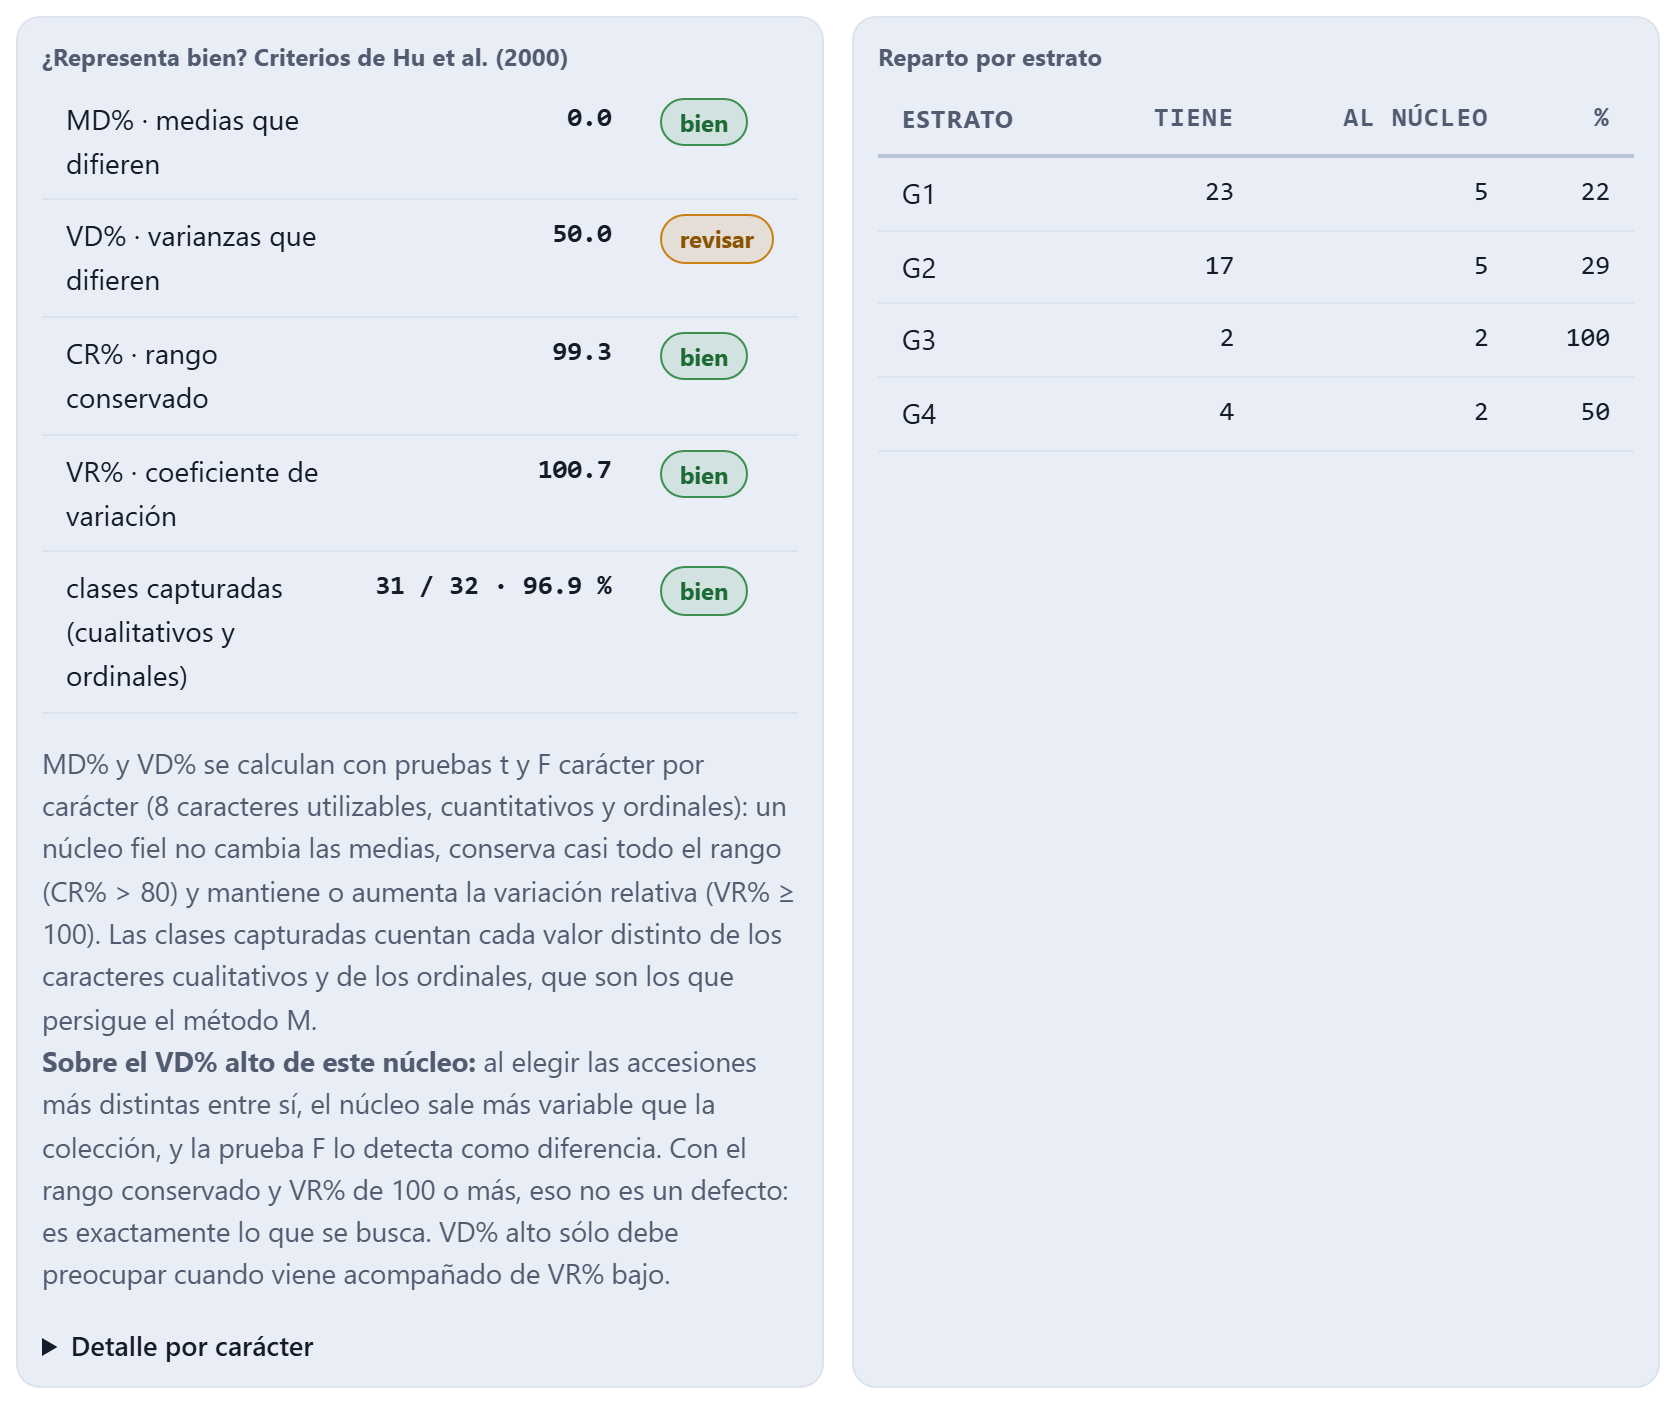
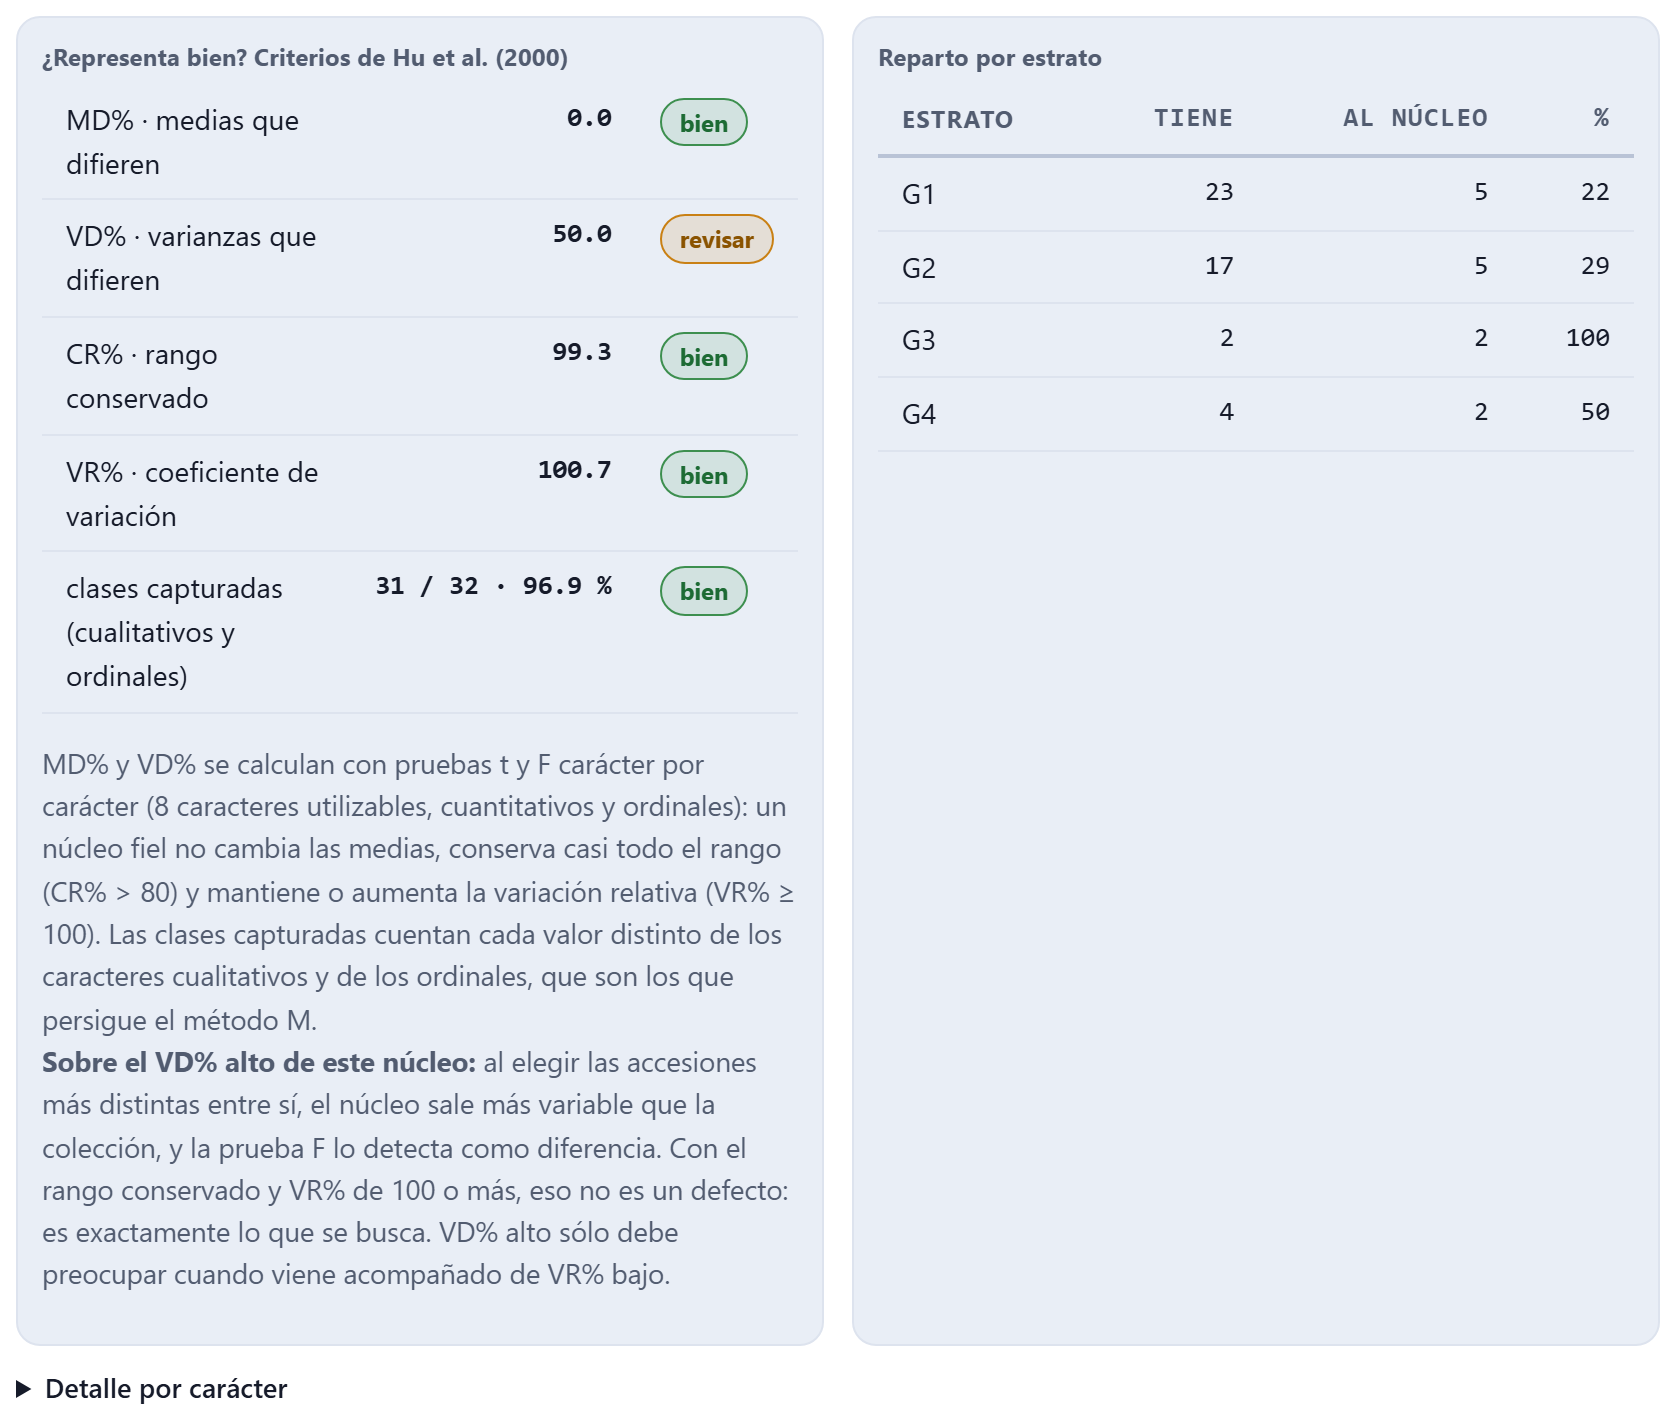
Manual en español: capítulo 7 con el aviso de núcleo pequeño que calcula el tamaño y el detalle por carácter a todo el ancho; capturas b7-nucleo, b7-nucleo30 y b7-detalle rehechas

diff --git a/manual/es/07-bloque7.html b/manual/es/07-bloque7.html
@@ -19,7 +19,7 @@
   figure.chica { width: 62%; margin-left: auto; margin-right: auto; }
   figure.angosta { width: 50%; margin-left: auto; margin-right: auto; }
   .lado { display: flex; gap: 0.22in; align-items: center; margin: 0.1in 0; }
-  .lado > figure { flex: 0 0 46%; margin: 0; }
+  .lado > figure { flex: 0 0 40%; margin: 0; }
   .lado > div { flex: 1 1 0; }
 </style>
 </head>
@@ -207,7 +207,7 @@
   <h2 id="b7-6"><span class="num">7.6</span>La colección núcleo: estratos, reparto y elección</h2>
   <p>Una <b>colección núcleo</b> (Frankel y Brown 1984) es un subconjunto pequeño que guarda, con el mínimo de repeticiones, la mayor parte de la diversidad de la colección entera. Sirve para caracterizar a fondo, para evaluar en campo o para atender pedidos sin tocar todo el banco. La sección <span class="ui">3 · La colección núcleo</span> la arma en tres decisiones: cuántas accesiones, en qué estratos se reparten y cuáles se eligen dentro de cada estrato.</p>
   <figure class="mediana">
-    <div class="marco"><img src="../img/b7-nucleo.png" alt="La sección 3 · La colección núcleo con los valores de fábrica: los selectores Tamaño en 10 %, Método por estratos, Estratos en grupos del agrupamiento, Reparto en Logarítmica y Dentro del estrato las más distintas, la casilla al menos 1 por estrato sin marcar y el botón otra selección al azar desactivado; el aviso El núcleo es demasiado pequeño para juzgarlo con estas cifras con 5 accesiones; la tabla de criterios de Hu et al. con MD% 0.0 bien, VD% 62.5 revisar, CR% 75.2 revisar, VR% 91.4 revisar y clases capturadas 19 / 32 · 59.4 % revisar, el desplegable Detalle por carácter cerrado; y el reparto por estrato G1 23 a 2, G2 17 a 1, G3 2 a 1 y G4 4 a 1"></div>
+    <div class="marco"><img src="../img/b7-nucleo.png" alt="La sección 3 · La colección núcleo con los valores de fábrica: los selectores Tamaño en 10 %, Método por estratos, Estratos en grupos del agrupamiento, Reparto en Logarítmica y Dentro del estrato las más distintas, la casilla al menos 1 por estrato sin marcar y el botón otra selección al azar desactivado; el aviso El núcleo es demasiado pequeño para juzgarlo con estas cifras con 5 accesiones, que dice que con 46 caracterizadas hace falta un núcleo de 21 % o más y propone elegir 25 %; la tabla de criterios de Hu et al. con MD% 0.0 bien, VD% 62.5 revisar, CR% 75.2 revisar, VR% 91.4 revisar y clases capturadas 19 / 32 · 59.4 % revisar; el reparto por estrato G1 23 a 2, G2 17 a 1, G3 2 a 1 y G4 4 a 1; y, debajo, el desplegable Detalle por carácter cerrado"></div>
     <figcaption><b>Figura 7.5.</b> El núcleo de fábrica: 10&nbsp;%, estratificado por los grupos de Ward, reparto logarítmico y las accesiones más distintas dentro de cada estrato. Con 5 accesiones, la app avisa que el núcleo es demasiado pequeño para juzgarlo.</figcaption>
   </figure>
   <p>La tabla <span class="ui">Reparto por estrato</span> dice, para cada estrato, cuántas accesiones <span class="ui">Tiene</span>, cuántas van <span class="ui">Al núcleo</span> y qué porcentaje es; los estratos que se quedan sin representante salen en gris, con 0. Con el método M, en su lugar aparece una frase con cuántas accesiones se eligieron y cuántas clases quedaron fuera. Debajo, la lista del núcleo (figura 7.9) da el número, el nombre, la especie, el grupo y el estrato de cada accesión elegida.</p>
@@ -269,11 +269,11 @@
     <div class="formula">clases capturadas = 100 · Σ clases en el núcleo / Σ clases en la colección<br>(cualitativos y ordinales: cada valor distinto es una clase)</div>
     <p>Hu <i>et al.</i> (2000) sólo fijan dos umbrales: un buen núcleo tiene MD% &lt; 20 y CR% &gt; 80. De VR% dicen que cuanto mayor, mejor; la app pide VR% ≥ 100, que el núcleo no pierda variación relativa frente a la colección, y usa ese mismo umbral en el recuadro, en el semáforo y en la nota sobre VD%. También pone en verde VD% &lt; 20 y las clases capturadas por encima de 80&nbsp;%.</p>
   </div>
-  <p>El aviso amarillo de la figura 7.5, <span class="ui">El núcleo es demasiado pequeño…</span>, aparece siempre que el núcleo tiene menos de 10 accesiones, porque con tan pocas las pruebas <i>t</i> y <i>F</i> casi no tienen potencia. Sube el tamaño. Con 25&nbsp;% (12 accesiones) el aviso desaparece, CR% sube a 99.2 y VR% a 99.3, todavía a un pelo del umbral de 100; con 30&nbsp;% (14 accesiones) el núcleo pasa los tres criterios (figura 7.6).</p>
+  <p>El aviso amarillo de la figura 7.5, <span class="ui">El núcleo es demasiado pequeño…</span>, aparece siempre que el núcleo tiene menos de 10 accesiones, porque con tan pocas las pruebas <i>t</i> y <i>F</i> casi no tienen potencia. El aviso calcula cuánto subir: con 46 caracterizadas, <span class="ui">hace falta un núcleo de 21 % o más: elige 25 % en «Tamaño»</span>. Con 25&nbsp;% (12 accesiones) el aviso desaparece, CR% sube a 99.2 y VR% a 99.3, todavía a un pelo del umbral de 100; con 30&nbsp;% (14 accesiones) el núcleo pasa los tres criterios (figura 7.6).</p>
   <p>Con 14 accesiones, el núcleo conserva el 99.3&nbsp;% del rango, el 100.7&nbsp;% de la variación relativa y 31 de las 32 clases (sólo falta el color «pinto»), sin cambiar ninguna media. VD% queda en 50: cuatro de ocho caracteres tienen una varianza distinta de la colección. Como explica la nota bajo la tabla de criterios, eso no es un defecto: al elegir las accesiones más distintas entre sí, el núcleo sale más variable que la colección y la prueba <i>F</i> lo detecta. VD% alto sólo preocupa cuando viene con VR% bajo. La nota aparece cuando VD% pasa de 20 con VR% ≥ 100 y CR% &gt; 80.</p>
   <figure class="chica">
-    <div class="marco"><img src="../img/b7-nucleo30.png" alt="La validación con el tamaño en 30 %: MD% 0.0 bien, VD% 50.0 revisar, CR% 99.3 bien, VR% 100.7 bien y clases capturadas 31 / 32 · 96.9 % bien; la nota Sobre el VD% alto de este núcleo; el desplegable Detalle por carácter cerrado; y el reparto G1 23 a 5, G2 17 a 5, G3 2 a 2 y G4 4 a 2"></div>
-    <figcaption><b>Figura 7.6.</b> La validación y el reparto con el tamaño en 30&nbsp;% (14 accesiones). Ya no aparece el aviso de núcleo pequeño, y sí la nota que explica el VD% alto.</figcaption>
+    <div class="marco"><img src="../img/b7-nucleo30.png" alt="La validación con el tamaño en 30 %: MD% 0.0 bien, VD% 50.0 revisar, CR% 99.3 bien, VR% 100.7 bien y clases capturadas 31 / 32 · 96.9 % bien; la nota Sobre el VD% alto de este núcleo; el desplegable Detalle por carácter cerrado; y el reparto G1 23 a 5, G2 17 a 5, G3 2 a 2 y G4 4 a 2; debajo, el desplegable Detalle por carácter cerrado"></div>
+    <figcaption><b>Figura 7.6.</b> La validación y el reparto con el tamaño en 30&nbsp;% (14 accesiones). Ya no aparece el aviso de núcleo pequeño, y sí la nota que explica el VD% alto. Debajo de los dos recuadros queda, cerrado, el desplegable <span class="ui">Detalle por carácter</span>.</figcaption>
   </figure>
   <div class="caja ejemplo">
     <div class="caja-t"><span class="ico">▸</span>Ejemplo numérico · el vigor y las clases en el núcleo de fábrica</div>
@@ -286,10 +286,10 @@
     </tbody></table>
     <p>La app promedia lo mismo en los ocho caracteres utilizables. El rango sale mal en dos: la altura (CR = 9.5) y el peso de 100 semillas (2.4), porque ninguna de las cinco accesiones tiene un valor extremo de esos caracteres —el encino de 329 g por 100 semillas, por ejemplo, no entró—; por eso CR% queda en 75.2. Todas estas cifras, carácter por carácter, están en el desplegable <span class="ui">Detalle por carácter</span> (figura 7.7).</p>
   </div>
-  <p>Para ver qué carácter falla, abre <span class="ui">Detalle por carácter</span>, al pie del recuadro de criterios. Trae dos tablas: la primera da, por carácter utilizable, la media de la colección y la del núcleo, la <i>p</i> de la prueba <i>t</i> y la de la prueba <i>F</i> (en rojo las menores de 0.05), y el CR% y el VR% de ese carácter; la segunda da, por carácter cualitativo u ordinal, sus clases en la colección y en el núcleo, el H′ de ambos y las clases que faltan.</p>
+  <p>Para ver qué carácter falla, abre <span class="ui">Detalle por carácter</span>, debajo de los criterios y del reparto (figura 7.7): por carácter utilizable, las medias, la <i>p</i> de las pruebas <i>t</i> y <i>F</i> (en rojo si es menor de 0.05), el CR% y el VR%; por carácter cualitativo u ordinal, las clases, el H′ y las clases que faltan.</p>
   <figure class="chica">
     <div class="marco"><img src="../img/b7-detalle.png" alt="El desplegable Detalle por carácter abierto con el núcleo del 30 %: una tabla de los ocho caracteres utilizables con media de la colección, media del núcleo, p (t), p (F), CR% y VR%, con p (F) en rojo para dias_floracion 0.027, altura_planta_cm 0.036, peso_100_semillas_g 0.004 y rendimiento_planta_g 0.020; y una tabla de los seis caracteres cualitativos y ordinales con sus clases, las del núcleo, H′ de la colección y del núcleo, y las que faltan: sólo pinto en color_principal"></div>
-    <figcaption><b>Figura 7.7.</b> El desplegable <span class="ui">Detalle por carácter</span> con el núcleo del 30&nbsp;%. Para que se vean todas las columnas, la captura da al recuadro de criterios todo el ancho; en la app comparte renglón con el reparto y las tablas se desplazan de lado.</figcaption>
+    <figcaption><b>Figura 7.7.</b> El desplegable <span class="ui">Detalle por carácter</span> abierto, con el núcleo del 30&nbsp;%: las dos tablas ocupan todo el ancho de la tarjeta, con todas sus columnas a la vista.</figcaption>
   </figure>
   <p>En el ejemplo, las cuatro varianzas distintas son las de floración, altura, peso de 100 semillas y rendimiento: el núcleo trae al agave, al encino, al cacao y a la vainilla, que estiran esos caracteres. Sus medias suben mucho —la floración, de 304.05 a 711.58 días— pero ninguna <i>p</i> de la prueba <i>t</i> baja de 0.05, porque la variación dentro del núcleo también es enorme.</p>
   <div class="lado">
@@ -357,7 +357,7 @@
       <tr><td><span class="ui">Todavía no hay datos de caracterización…</span></td><td>Hay pasaporte, pero no caracterización, o ninguna de sus filas se une. Cárgala, pégala o usa la de ejemplo.</td></tr>
       <tr><td><span class="ui">Ninguna fila encuentra su accesión.</span></td><td>La columna llave no es la del número de accesión, o los números no se escriben igual que en el pasaporte (espacios, ceros, guiones). Cambia la columna en la tarjeta o corrige los números en tu hoja.</td></tr>
       <tr><td>La silueta media es muy baja con cualquier número de grupos</td><td>La colección no tiene grupos claros con estos caracteres, o un valor extremo aplasta las diferencias (apartado 7.3). Revisa los rangos, baja el peso de los caracteres sorteados o poco confiables, o trabaja por especie.</td></tr>
-      <tr><td><span class="ui">El núcleo es demasiado pequeño para juzgarlo con estas cifras.</span></td><td>El núcleo tiene menos de 10 accesiones. Sube el tamaño.</td></tr>
+      <tr><td><span class="ui">El núcleo es demasiado pequeño para juzgarlo con estas cifras.</span></td><td>El núcleo tiene menos de 10 accesiones. Sube el tamaño al que propone el propio aviso (25&nbsp;% con 46 caracterizadas).</td></tr>
       <tr><td><span class="ui">… estratos se quedan sin representante.</span></td><td>Hay más estratos que plazas. Usa estratos más gruesos, sube el tamaño o marca <span class="ui">al menos 1 por estrato</span>, sabiendo que el núcleo crecerá.</td></tr>
       <tr><td><span class="ui">El núcleo tiene … accesiones, no las … pedidas</span></td><td>Está marcada <span class="ui">al menos 1 por estrato</span> y hay más estratos que plazas. Desmárcala si necesitas el tamaño pedido.</td></tr>
       <tr><td>El núcleo trae dos veces la misma accesión con números distintos</td><td>Duplicados sin fusionar. Resuélvelos en el Bloque 3 (capítulo 3).</td></tr>

diff --git a/manual/herramientas/recetas/b7-nucleo.js b/manual/herramientas/recetas/b7-nucleo.js
@@ -20,5 +20,5 @@
   const card = s.find(n => n.classList && n.classList.contains("card"));
   const grid = card.querySelector(".sum-grid");
   await irA(s[0]);
-  return caja([s[0], s[1], card.querySelector(".imp-row"), card.querySelector(".note-warn"), grid], 8);
+  return caja([s[0], s[1], card.querySelector(".imp-row"), card.querySelector(".note-warn"), grid, card.querySelector("details.b7-detail")], 8);
 })()

diff --git a/manual/herramientas/recetas/b7-nucleo30.js b/manual/herramientas/recetas/b7-nucleo30.js
@@ -20,5 +20,5 @@
   const card = s.find(n => n.classList && n.classList.contains("card"));
   const grid = card.querySelector(".sum-grid");
   await irA(grid);
-  return caja([grid], 8);
+  return caja([grid, card.querySelector("details.b7-detail")], 8);
 })()
